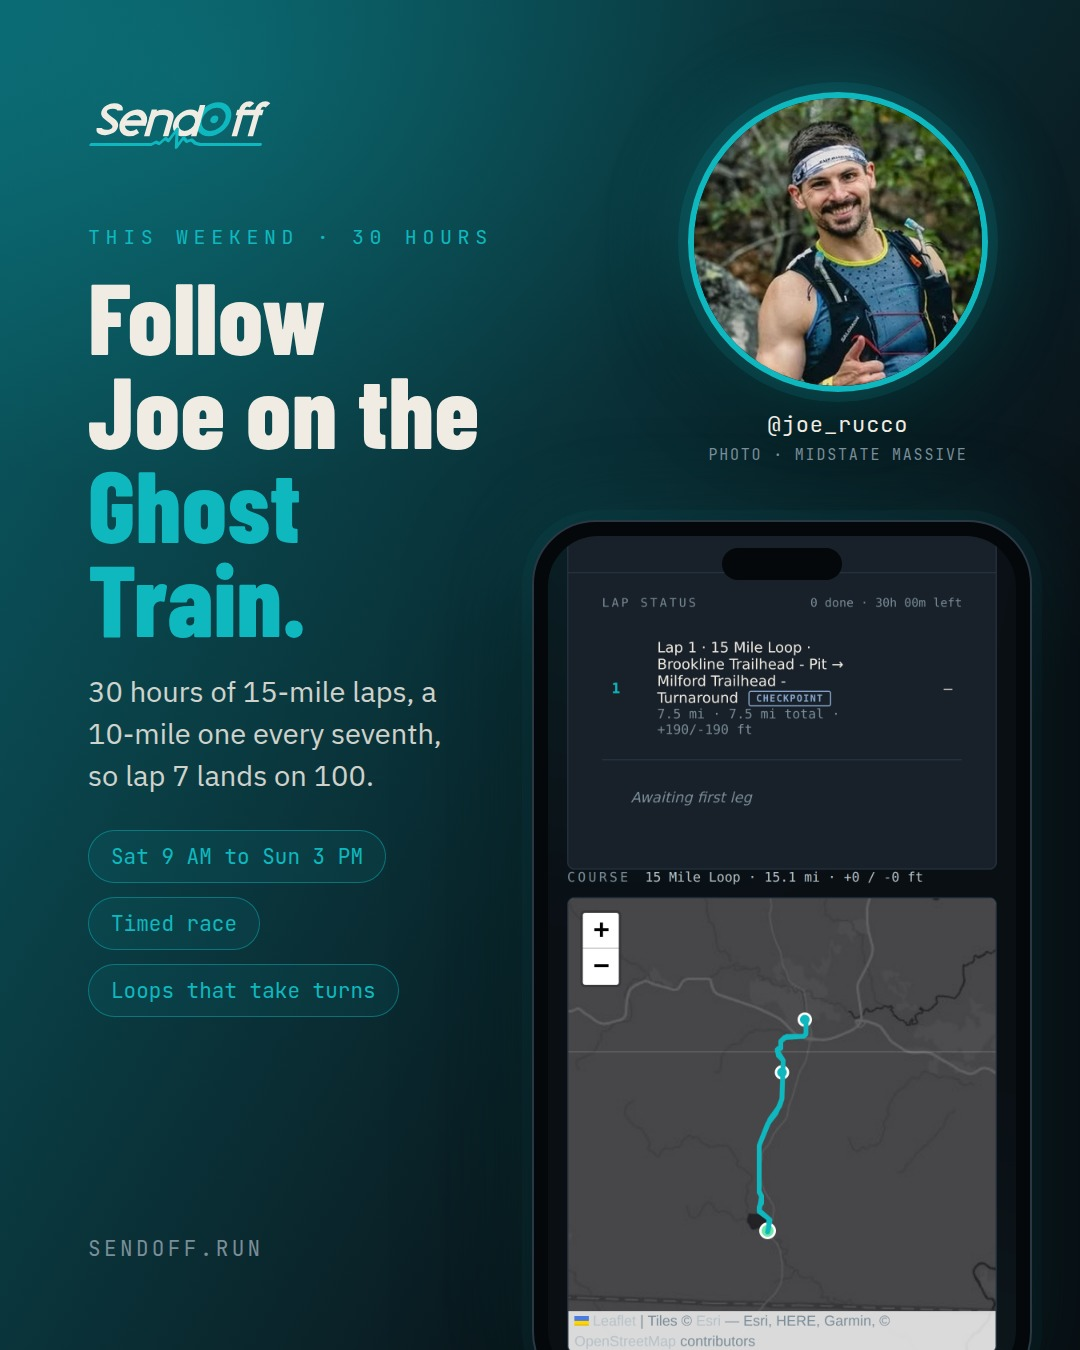
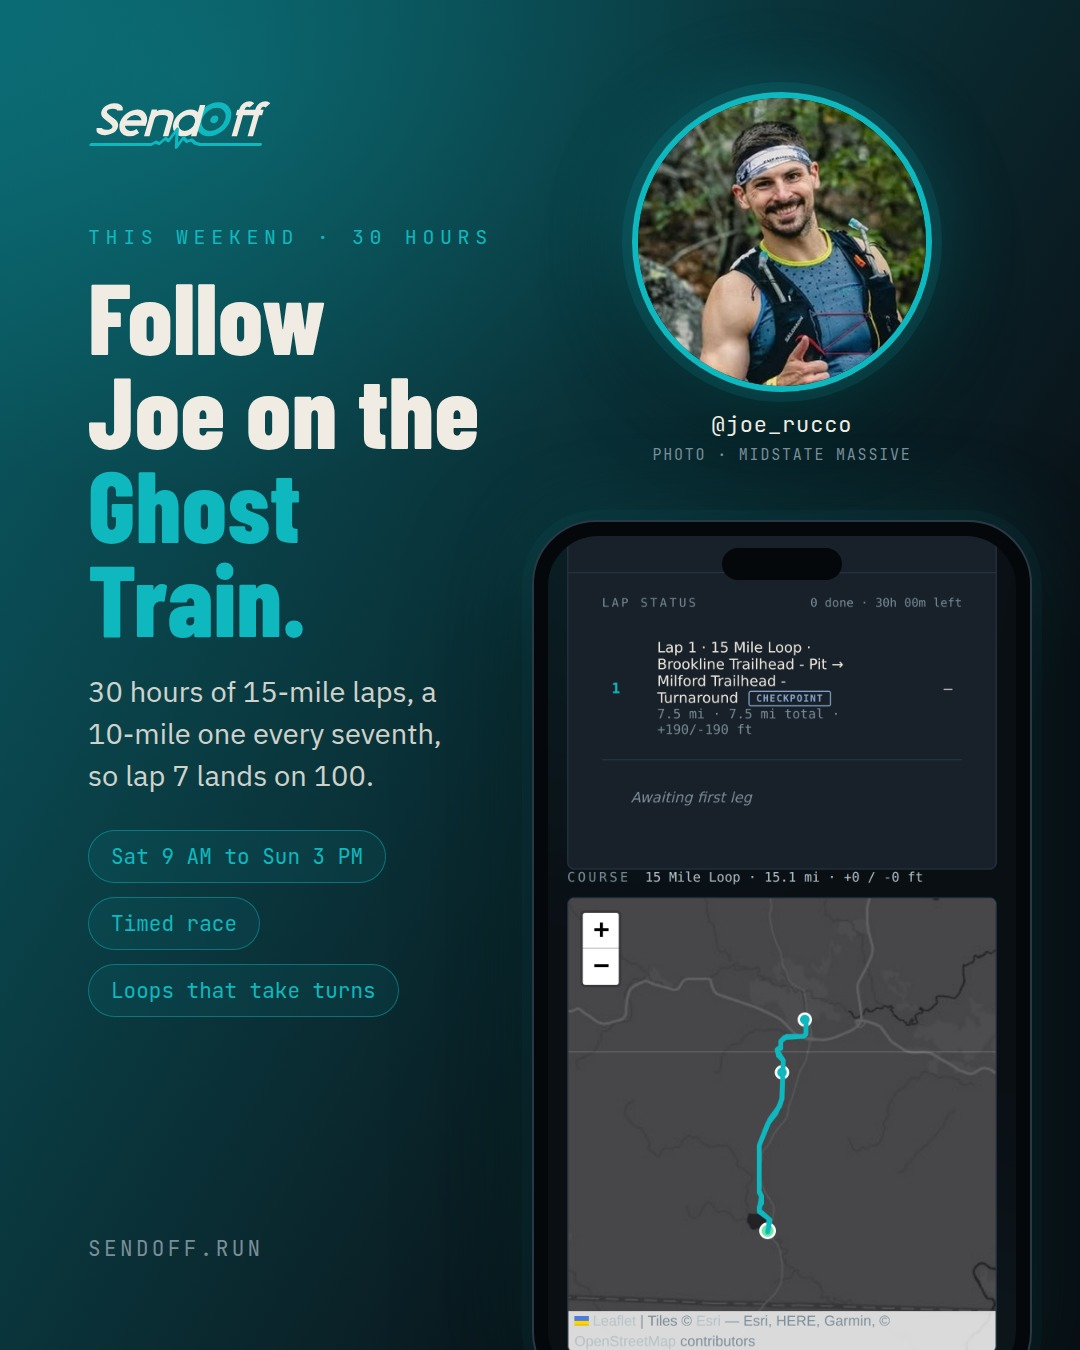
Ghost Train post: Joe's portrait centred over the phone
Claude-Session: https://claude.ai/code/session_01EWRjYYN5ZDLhgR1pme87tD

Changed region(s): [[0.5806, 0.0622, 0.9472, 0.3422]]

diff --git a/brand/social/features.html b/brand/social/features.html
@@ -83,7 +83,7 @@
 
   /* A racer's own portrait, round, in the top right above the phone, for a
      post about one person's race. */
-  .portrait{position:absolute;right:92px;top:92px;width:300px;z-index:2;text-align:center}
+  .portrait{position:absolute;right:148px;top:92px;width:300px;z-index:2;text-align:center}
   .portrait img{display:block;width:300px;height:300px;border-radius:50%;object-fit:cover;
     border:6px solid var(--signal);box-shadow:0 0 0 10px rgba(15,184,191,.12), 0 0 80px rgba(15,184,191,.35), 0 30px 80px rgba(0,0,0,.55)}
   .portrait figcaption{margin-top:18px;font-family:var(--mono);font-size:22px;color:var(--ink);letter-spacing:.04em}
